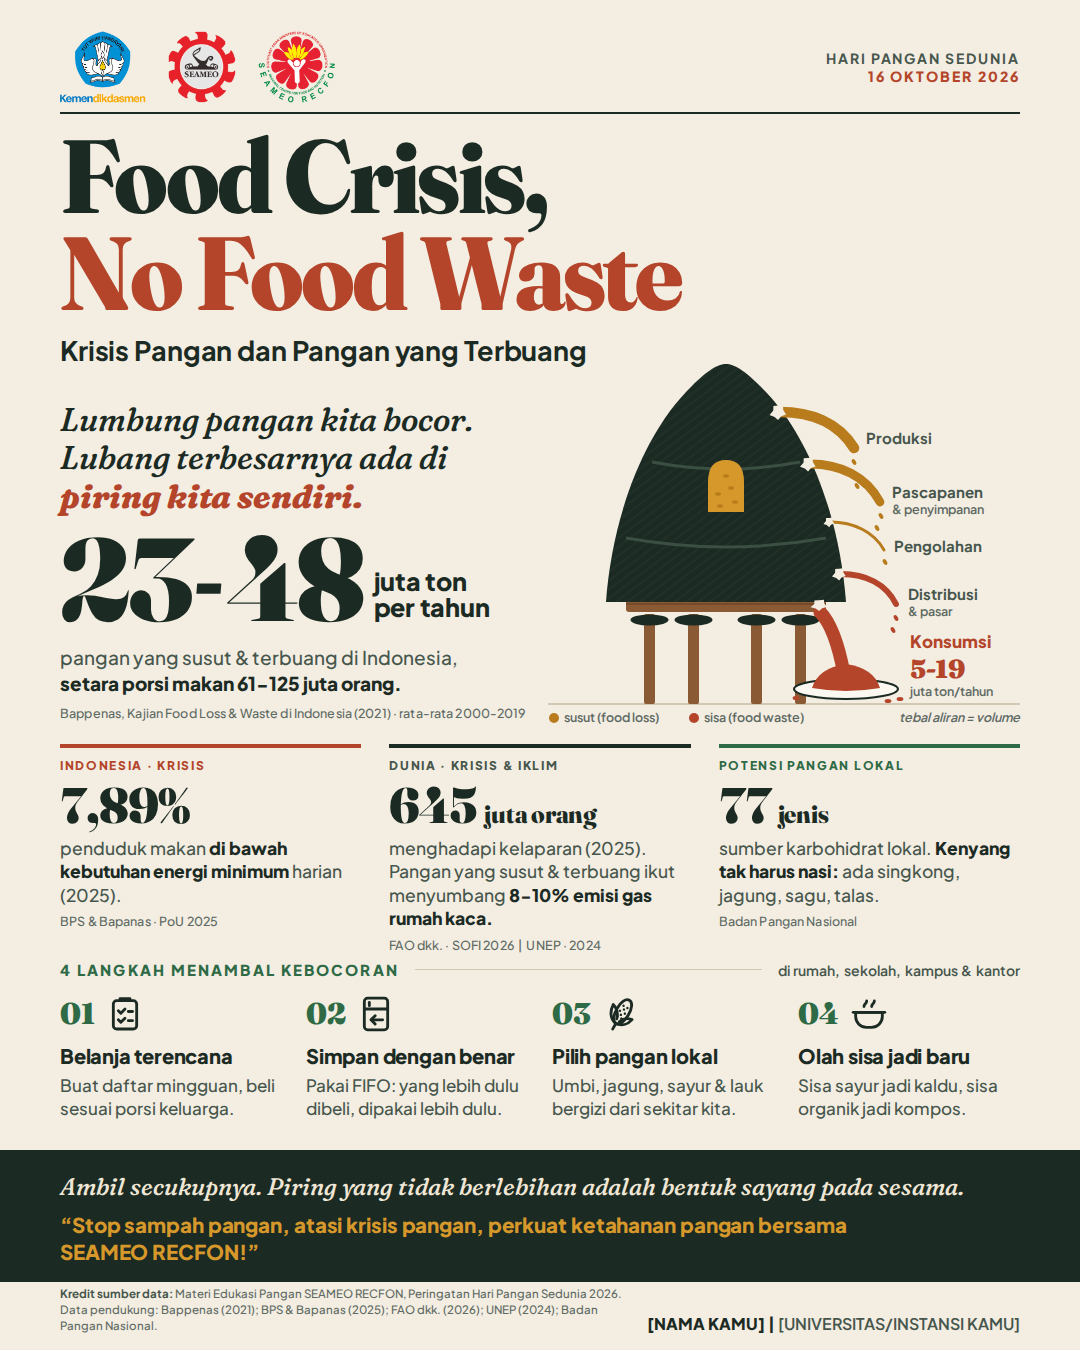
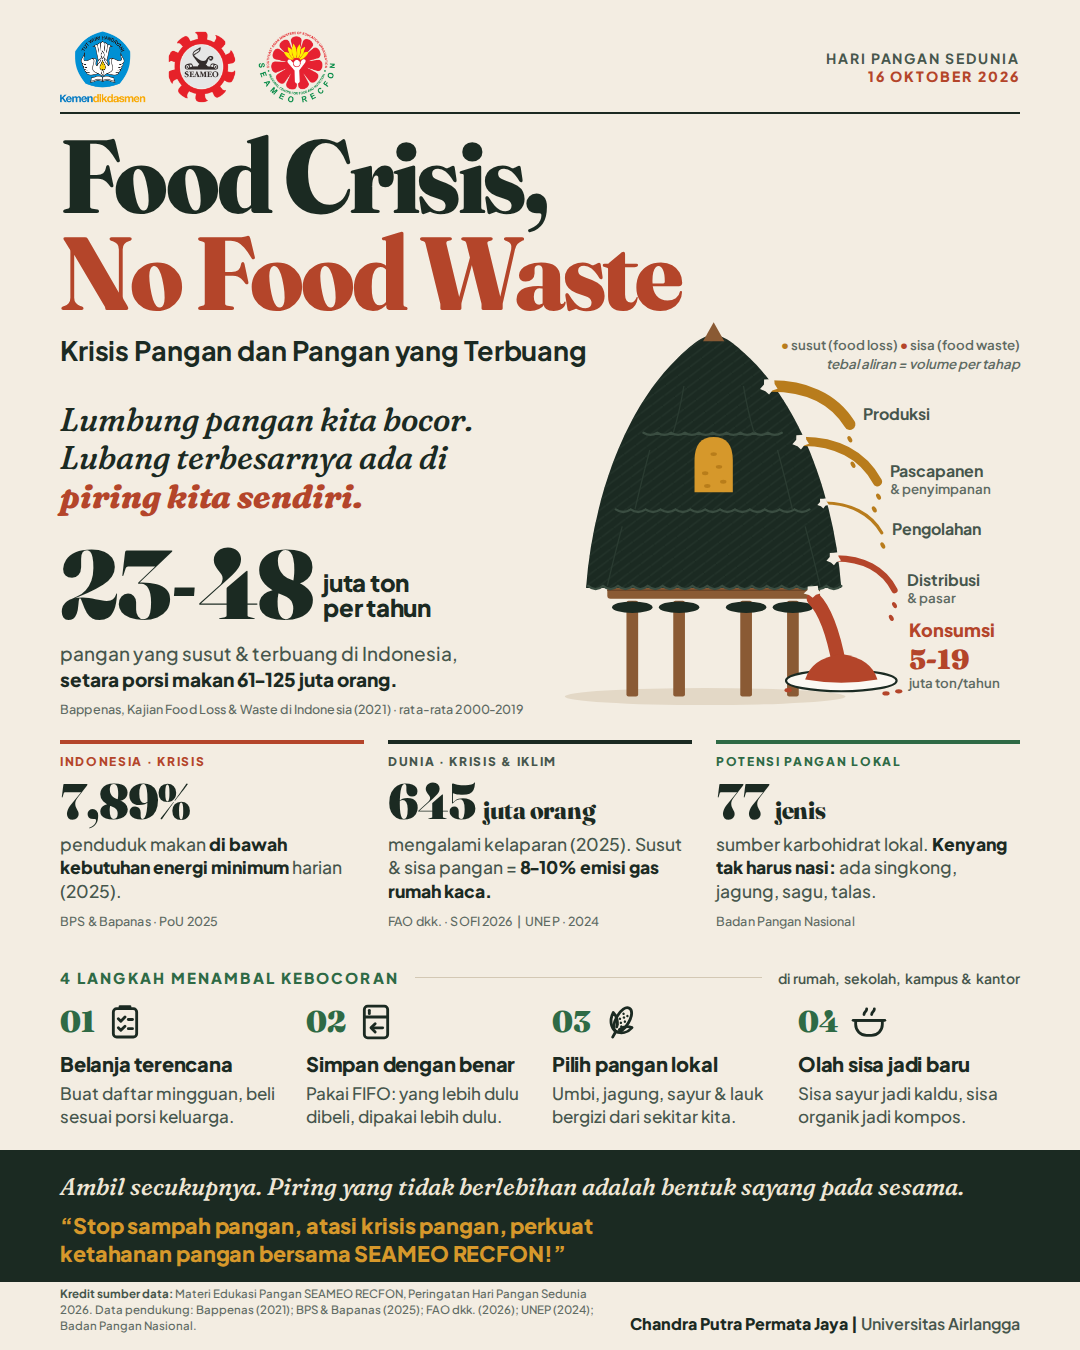
Refine visual design (DKV audit) and add participant name
- Restore headline dominance: key number 118px -> 98px
- Enlarge and raise the barn illustration on grid column 7; add thatch
  layers, ridge cap and ground shadow; remove tangency with headline
- Move legend next to the barn labels; align fact-card sources at the
  bottom with a shared 24px gutter; balance the slogan lines
- Tighten sans hyphens in number ranges
- Render with Chandra Putra Permata Jaya | Universitas Airlangga

Claude-Session: https://claude.ai/code/session_01Tws1XWT9H7XcaYbG8vPbgd

diff --git a/world-food-day-2026/design/infografis.html b/world-food-day-2026/design/infografis.html
@@ -90,26 +90,27 @@
     font-size: 33px; line-height: 1.16; color: var(--ink);
   }
   .lead em { font-style: italic; font-weight: 800; color: var(--rust); }
-  .bignum { left: var(--m); top: 526px; width: 480px; }
+  .bignum { left: var(--m); top: 540px; width: 480px; }
   .bignum .n {
     font-family: var(--serif); font-weight: 900;
     font-variation-settings: "opsz" 144, "SOFT" 0;
-    font-size: 118px; line-height: .9; letter-spacing: -.03em; color: var(--ink);
+    font-size: 98px; line-height: .9; letter-spacing: -.03em; color: var(--ink);
     display: flex; align-items: flex-end; gap: 12px;
   }
   .bignum .dash { display: inline-block; margin: 0 .05em 0 .03em; transform: translateY(-.02em); }
   .bignum .u {
-    font: 800 25px/1.05 var(--sans); letter-spacing: -.01em; padding-bottom: 12px; color: var(--ink);
+    font: 800 24px/1.05 var(--sans); letter-spacing: -.01em; padding-bottom: 8px; color: var(--ink);
   }
   .bignum .c {
     margin-top: 12px; font: 500 19px/1.38 var(--sans); color: var(--ink-2); width: 450px;
   }
   .bignum .c strong { color: var(--ink); font-weight: 800; }
+  .hy { margin: 0 -.09em; }   /* rapatkan tanda hubung rentang angka pada font sans */
   .src { font: 500 12.5px/1.35 var(--sans); color: var(--ink-3); letter-spacing: .01em; }
   .bignum .src { margin-top: 8px; }
 
   /* ---------- Hero kanan: ilustrasi lumbung (data-encoded) ---------- */
-  .hero-art { left: 548px; top: 352px; width: 472px; height: 372px; }
+  .hero-art { left: 552px; top: 290px; width: 468px; height: 426px; }
   .hero-art svg { display: block; overflow: visible; }
   .lbl { font: 700 15px var(--sans); fill: var(--ink-2); }
   .lbl-sub { font: 600 12.5px var(--sans); fill: var(--ink-3); }
@@ -118,10 +119,10 @@
 
   /* ---------- [BAGIAN 2] Data & fakta ---------- */
   .facts {
-    left: var(--m); right: var(--m); top: 744px; height: 206px;
-    display: grid; grid-template-columns: 1fr 1fr 1fr; gap: 28px;
+    left: var(--m); right: var(--m); top: 740px; height: 190px;
+    display: grid; grid-template-columns: 1fr 1fr 1fr; gap: 24px;
   }
-  .fact { border-top: 4px solid var(--ink); padding-top: 12px; }
+  .fact { border-top: 4px solid var(--ink); padding-top: 12px; display: flex; flex-direction: column; }
   .fact.id { border-color: var(--rust); }
   .fact.local { border-color: var(--leaf); }
   .tag {
@@ -137,11 +138,11 @@
   .fact .n small { font-size: 26px; font-weight: 800; letter-spacing: -.01em; }
   .fact p { margin-top: 7px; font: 500 17.5px/1.34 var(--sans); color: var(--ink-2); }
   .fact p strong { color: var(--ink); font-weight: 800; }
-  .fact p.src { margin-top: 6px; font: 500 12.5px/1.35 var(--sans); color: var(--ink-3); }
+  .fact p.src { margin-top: auto; padding-top: 6px; font: 500 12.5px/1.35 var(--sans); color: var(--ink-3); }
 
   /* ---------- [BAGIAN 3] Solusi / aksi nyata ---------- */
   .steps-head {
-    left: var(--m); right: var(--m); top: 962px;
+    left: var(--m); right: var(--m); top: 970px;
     display: flex; align-items: center; gap: 16px;
   }
   .steps-head h3 {
@@ -151,7 +152,7 @@
   .steps-head .hr { flex: 1; height: 1.5px; background: var(--line); }
   .steps-head .where { font: 600 14px/1 var(--sans); word-spacing: .12em; color: var(--ink-2); white-space: nowrap; }
   .steps {
-    left: var(--m); right: var(--m); top: 994px; height: 140px;
+    left: var(--m); right: var(--m); top: 1002px; height: 140px;
     display: grid; grid-template-columns: repeat(4, 1fr); gap: 24px;
   }
   .step { position: relative; }
@@ -175,7 +176,7 @@
     font-size: 24px; line-height: 1.25; color: #EFE6D6;
   }
   .band .slogan {
-    margin-top: 10px; font: 800 20.5px/1.3 var(--sans); letter-spacing: -.005em; color: var(--grain);
+    margin-top: 10px; text-wrap: balance; max-width: 900px; font: 800 21.5px/1.3 var(--sans); letter-spacing: -.005em; color: var(--grain);
   }
 
   /* ---------- [BAGIAN 5b] Footer: kredit sumber + identitas peserta ---------- */
@@ -224,21 +225,22 @@
 
 <div class="abs bignum" data-zone="2 · Fakta 1 (angka kunci)">
   <div class="n"><span>23<span class="dash">-</span>48</span> <span class="u">juta ton<br>per tahun</span></div>
-  <p class="c">pangan yang susut &amp; terbuang di Indonesia, <strong>setara porsi makan 61-125 juta orang.</strong></p>
-  <p class="src">Bappenas, Kajian Food Loss &amp; Waste di Indonesia (2021) · rata-rata 2000-2019</p>
+  <p class="c">pangan yang susut &amp; terbuang di Indonesia, <strong>setara porsi makan 61<span class="hy">-</span>125 juta orang.</strong></p>
+  <p class="src">Bappenas, Kajian Food Loss &amp; Waste di Indonesia (2021) · rata-rata 2000<span class="hy">-</span>2019</p>
 </div>
 
 <!-- Ilustrasi utama: lebar aliran ~ nilai tengah volume per tahap (Bappenas 2021) -->
 <div class="abs hero-art" data-zone="Visual utama (lumbung bocor)">
-<svg width="472" height="372" viewBox="0 0 472 372" aria-label="Ilustrasi lumbung padi yang bocor di lima titik rantai pangan">
+<svg width="468" height="426" viewBox="0 0 440 400" aria-label="Ilustrasi lumbung padi yang bocor di lima titik rantai pangan">
   <defs>
     <pattern id="thatch" width="10" height="10" patternUnits="userSpaceOnUse" patternTransform="rotate(8)">
       <path d="M0 10 L10 0" stroke="#2A3B31" stroke-width="1.4"/>
     </pattern>
   </defs>
+  <g transform="translate(-26 30)">
 
   <!-- tanah -->
-  <path d="M0 352 H472" stroke="var(--line)" stroke-width="2"/>
+    <ellipse cx="170" cy="352" rx="132" ry="8" fill="#E3D8C6"/>
 
   <!-- tiang + jelepeng (piringan penahan tikus) -->
   <g fill="var(--wood)">
@@ -263,10 +265,17 @@
   <path d="M58 250 C64 168 94 82 144 34 C160 18 170 12 178 12 C186 12 196 18 212 34 C262 82 292 168 298 250 Z"
         fill="url(#thatch)" opacity=".55"/>
   <!-- ikatan atap -->
-  <g fill="none" stroke="#3C4F43" stroke-width="3">
-    <path d="M104 110 Q178 124 252 110"/>
-    <path d="M78 186 Q178 204 278 186"/>
+  <g fill="none" stroke="#3A4D41" stroke-width="2.2" stroke-linecap="round">
+    <path d="M112 104 q6.5 4 13 0 q6.5 4 13 0 q6.5 4 13 0 q6.5 4 13 0 q6.5 4 13 0 q6.5 4 13 0 q6.5 4 13 0 q6.5 4 13 0 q6.5 4 13 0 q6.5 4 13 0"/>
+    <path d="M86 176 q7.0 5 14 0 q7.0 5 14 0 q7.0 5 14 0 q7.0 5 14 0 q7.0 5 14 0 q7.0 5 14 0 q7.0 5 14 0 q7.0 5 14 0 q7.0 5 14 0 q7.0 5 14 0 q7.0 5 14 0 q7.0 5 14 0 q7.0 5 14 0"/>
+    <path d="M60 248 q7.0 6 14 0 q7.0 6 14 0 q7.0 6 14 0 q7.0 6 14 0 q7.0 6 14 0 q7.0 6 14 0 q7.0 6 14 0 q7.0 6 14 0 q7.0 6 14 0 q7.0 6 14 0 q7.0 6 14 0 q7.0 6 14 0 q7.0 6 14 0 q7.0 6 14 0 q7.0 6 14 0 q7.0 6 14 0 q7.0 6 14 0"/>
   </g>
+  <g fill="none" stroke="#2C3D33" stroke-width="1.3" opacity=".9">
+    <path d="M150 60 Q146 84 140 104"/><path d="M206 60 Q210 84 216 104"/>
+    <path d="M118 120 Q110 150 104 176"/><path d="M238 120 Q246 150 252 176"/>
+    <path d="M92 192 Q84 222 78 248"/><path d="M264 192 Q272 222 278 248"/>
+  </g>
+  <path d="M168 18 L178 0 L188 18 Z" fill="var(--wood)"/>
   <!-- jendela: isi gabah terlihat -->
   <path d="M160 130 Q160 108 178 108 Q196 108 196 130 V160 H160 Z" fill="var(--grain)"/>
   <g fill="#B87D1A">
@@ -324,13 +333,12 @@
     <text class="lbl-sub" x="362" y="344">juta ton/tahun</text>
   </g>
 
+  </g>
+
   <!-- legenda -->
-  <g transform="translate(0,368)">
-    <circle cx="6" cy="-2" r="5" fill="var(--grain-deep)"/>
-    <text class="lbl-sub" x="16" y="2">susut (food loss)</text>
-    <circle cx="146" cy="-2" r="5" fill="var(--rust)"/>
-    <text class="lbl-sub" x="156" y="2">sisa (food waste)</text>
-    <text class="lbl-sub" x="472" y="2" text-anchor="end" style="font-style:italic">tebal aliran = volume</text>
+  <g transform="translate(440,56)" text-anchor="end">
+    <text class="lbl-sub" x="0" y="0"><tspan fill="var(--grain-deep)">●</tspan> susut (food loss)   <tspan fill="var(--rust)">●</tspan> sisa (food waste)</text>
+    <text class="lbl-sub" x="0" y="18" style="font-style:italic">tebal aliran = volume per tahap</text>
   </g>
 </svg>
 </div>
@@ -346,7 +354,7 @@
   <div class="fact">
     <div class="tag">Dunia · Krisis &amp; Iklim</div>
     <div class="n">645 <small>juta orang</small></div>
-    <p>menghadapi kelaparan (2025). Pangan yang susut &amp; terbuang ikut menyumbang <strong>8-10% emisi gas rumah kaca.</strong></p>
+    <p>mengalami kelaparan (2025). Susut &amp; sisa pangan = <strong>8<span class="hy">-</span>10% emisi gas rumah kaca.</strong></p>
     <p class="src">FAO dkk. · SOFI 2026 &nbsp;|&nbsp; UNEP · 2024</p>
   </div>
   <div class="fact local">
@@ -393,7 +401,7 @@
 <!-- [BAGIAN 4] Ajakan & slogan resmi -->
 <section class="abs band" data-zone="4 · Ajakan & slogan wajib">
   <p class="ajak">Ambil secukupnya. Piring yang tidak berlebihan adalah bentuk sayang pada sesama.</p>
-  <p class="slogan">“Stop sampah pangan, atasi krisis pangan, perkuat ketahanan pangan bersama <span style="white-space:nowrap">SEAMEO RECFON!”</span></p>
+  <p class="slogan">“Stop sampah pangan, atasi krisis pangan, perkuat ketahanan pangan bersama SEAMEO&nbsp;RECFON!”</p>
 </section>
 
 <!-- [BAGIAN 5b] Footer & kredensial -->

diff --git a/world-food-day-2026/README.md b/world-food-day-2026/README.md
@@ -21,14 +21,14 @@ Tema: **Food Crisis, Food Waste** · Format: feed Instagram 4:5 (1080 × 1350 px
 
 - [ ] **Cek juknis soal AI.** Ringkasan ketentuan publik menyebut karya harus buatan manusia dan dilarang memakai AI. Kalau benar, jangan kirim PNG ini. Kerjakan ulang desainnya sendiri memakai `KONSEP-LENGKAP.md` dan wireframe sebagai brief.
 - [x] 3 logo resmi sudah terpasang (dari file kiriman peserta). Cocokkan sekali lagi dengan versi di link juknis.
-- [ ] Ganti `[NAMA KAMU]` dan `[UNIVERSITAS/INSTANSI KAMU]`.
+- [x] Nama & instansi: Chandra Putra Permata Jaya | Universitas Airlangga.
 - [ ] Buka URL sumber di `KONSEP-LENGKAP.md` (Tahap 1), terutama angka PoU 7,89% di tabel BPS.
 
 ## Render ulang
 
 ```bash
 npm install
-node scripts/render.mjs --nama "Nama Lengkap" --instansi "Universitas Contoh"
+node scripts/render.mjs --nama "Chandra Putra Permata Jaya" --instansi "Universitas Airlangga"
 node scripts/render.mjs --mode wireframe
 ```
 Jika Chromium untuk Playwright belum terpasang di komputer, jalankan dulu `npx playwright install chromium`.
